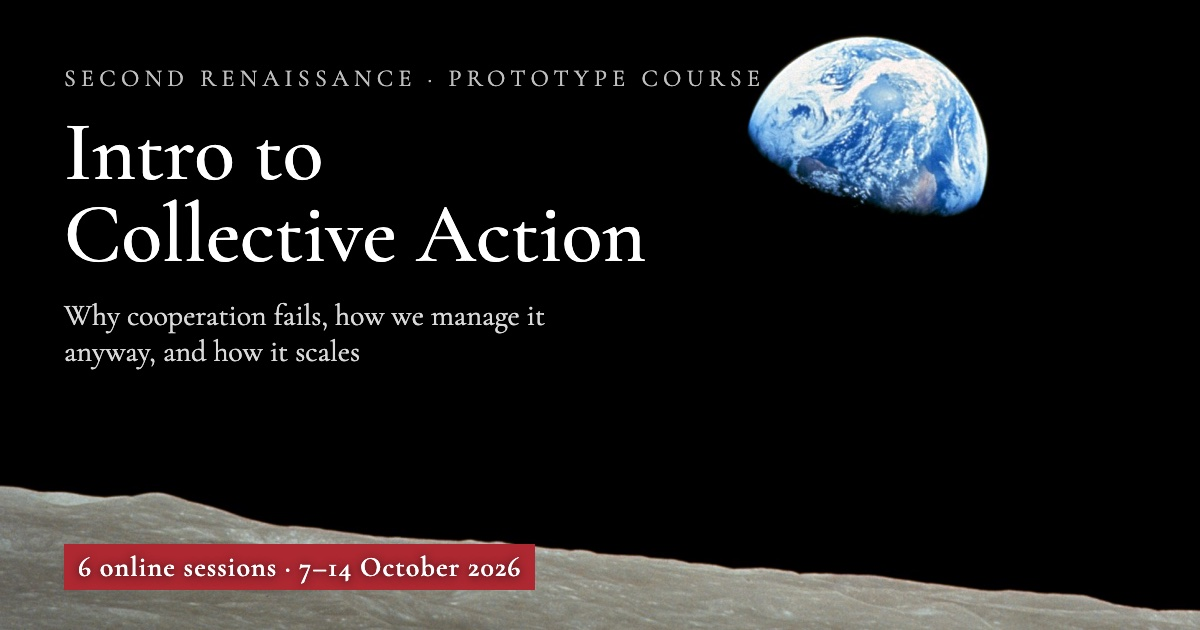
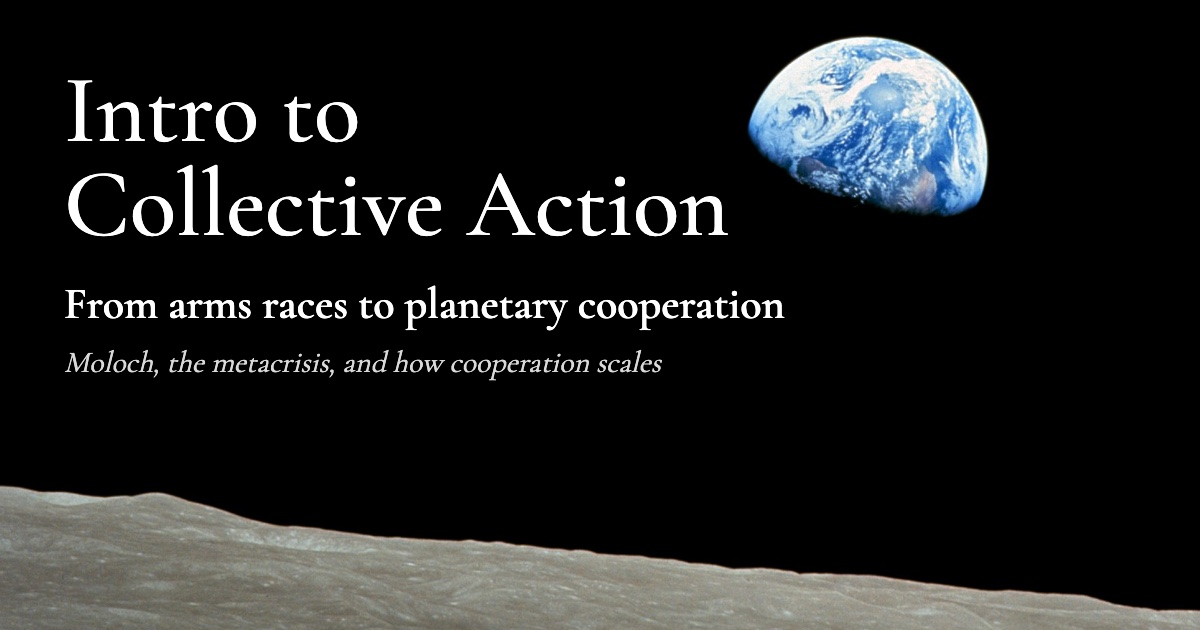
content(course): collective action copy pass – lead with cooperation, tagline, new social card

diff --git a/course/collective-action.md b/course/collective-action.md
@@ -1,6 +1,6 @@
 ---
 title: Intro to Collective Action
-description: Six sessions on why cooperation fails, how we manage it anyway, and how it has been made to work at larger and larger scales.
+description: A short online course on why cooperation fails, how it succeeds, and how it scales – from arms races and the commons to AI, climate and the metacrisis.
 image: /assets/img/course/collective-action-social-preview.jpg
 ---
 
@@ -8,40 +8,43 @@ image: /assets/img/course/collective-action-social-preview.jpg
 
 <figure>
   <img src="/assets/img/course/collective-action-hero.jpg" alt="Earthrise, photographed from lunar orbit by Apollo 8" />
-  <figcaption class="text-center text-sm text-gray-500">Earthrise, Apollo 8, 1968. At planetary scale there is no outside group left to cooperate against. (William Anders / NASA, public domain)</figcaption>
+  <figcaption class="text-center text-sm text-gray-500">Earthrise, Apollo 8, 1968. Every past jump in cooperation joined smaller groups into bigger ones. The next one is the whole planet. (William Anders / NASA, public domain)</figcaption>
 </figure>
 
-An introduction to collective action problems and opportunities, with applications to AI governance, climate change, nuclear weapons and the information commons.
+Humans cooperate at a scale no other animal does. We went from bands of a few dozen to villages, cities and nations of millions, and each jump came from new institutions and culture: ritual, kinship, law, money, the state. We also fail to cooperate in ways that could be catastrophic: arms races, overused commons, the race to build AI. These are collective action problems (sometimes called Moloch, or the multipolar trap) and they sit underneath the [metacrisis](https://metacrisis.info). This course looks at both sides: why cooperation fails, how it has been made to work, and what it would take at planetary scale.
 
 <a href="https://luma.com/iydwcpau" class="btn-primary">Sign up</a>
 
 | | |
 |---|---|
+| **Format** | Short online course, six sessions of 90 minutes |
 | **Dates** | Wednesday 7 to Wednesday 14 October 2026, weekdays only |
-| **Time** | 15:30–17:00 CEST, six sessions of 90 minutes |
-| **Where** | Online |
+| **Time** | 15:30–17:00 CEST |
 | **Price** | €20, refunded if you attend all six sessions |
 | **Led by** | Rufus Pollock — Life Itself co-founder, Cambridge economist (PhD), co-initiator of the Second Renaissance project |
 
 This is a prototype. The material is being developed as the course runs, and the outline below will change.
 
-## About
+> **From arms races to planetary cooperation.**
+> Moloch, the metacrisis, and how cooperation scales.
 
-Collective action failure is the central pattern of dysfunction underneath the [metacrisis](https://metacrisis.info). It's underneath climate change, the AI arms race, nuclear weapons and bioweapons. It's also underneath things like nihilism and loneliness that we don't usually associate with those.
+## About
 
 <figure>
   <img src="/assets/img/course/collective-action-nagasaki.jpg" alt="Mushroom cloud over Nagasaki, 9 August 1945" class="mx-auto max-h-[28rem]" />
   <figcaption class="text-center text-sm text-gray-500">Nagasaki, 9 August 1945. Every side in an arms race would be better off without one, and none can stop alone. (US Government, public domain)</figcaption>
 </figure>
 
-To the extent we're interested in collective action *problems* it is because we want *solutions*. But we have to start with diagnosis: what is a collective action failure — and success — and what causes them. We then look at what could be done, and especially at what made cooperation work at larger and larger scales.
+The same structure shows up in climate change, the AI race, nuclear weapons and bioweapons: each party does what makes sense for it, and the combined result is something none of them want. The course starts there, with the basic dynamics and the vocabulary for them.
+
+But a collective action problem is also a collective action opportunity. The reason to understand failure is to get better at success, and most of the course is about how cooperation has actually been made to work.
 
 <figure>
   <img src="/assets/img/course/collective-action-bali-rice-terraces.jpg" alt="Rice terraces in Bali" class="mx-auto max-h-[28rem]" />
   <figcaption class="text-center text-sm text-gray-500">Bali's subak irrigation system has shared water between thousands of farmers for over a thousand years, coordinated through a network of water temples. (Photo: Radoslav Bali, Unsplash)</figcaption>
 </figure>
 
-Every jump in the scale of human cooperation — band, village, chiefdom, city, nation — came from a cultural innovation: ritual, kinship, religion, law, money, the firm. Cultural evolution is how collective action gets solved at scale. The last two sessions are about what that implies for the jump we currently need to make: to planetary cooperation.
+Communities govern commons for centuries. States, markets and treaties hold strangers together. Every jump in the scale of human cooperation — band, village, chiefdom, city, nation — came from a cultural innovation: ritual, kinship, religion, law, money, the firm. The last two sessions ask what that implies for the jump we now need to make: to planetary cooperation.
 
 ## Course outline
 
@@ -106,12 +109,19 @@ What would cooperation at planetary scale require? Do we need a planetary religi
 - Enlarging the sphere of moral concern at each cultural paradigm shift
 - Thich Nhat Hanh and a new religion of Interbeing
 
+## What you'll come away with
+
+- A working vocabulary: prisoner's dilemma, stag hunt, tragedy of the commons, free riding, multipolar trap
+- The main answers to "how does cooperation happen at all?", from repeated interaction and Ostrom's commons to the state and the treaty
+- A picture of how cultural evolution has scaled cooperation, and what it has cost
+- A way to look at AI, climate and nuclear risk as cooperation challenges, with a sense of what has and hasn't worked
+
 ## Who it's for
 
-Anyone interested in what lies beneath some of the greatest challenges and opportunities of our time, from AI governance to climate change.
+Anyone interested in what lies beneath some of the biggest challenges and opportunities of our time, from AI governance to climate change.
 
-You might be interested if you work on or care about the commons, institutional design, cultural evolution, community-building, or technology governance.
+You might be interested if you work on or care about the commons, institutional design, cultural evolution, community-building, or technology governance — or if you've come across Moloch or the metacrisis and want to go a level deeper into the mechanics.
 
-No prior game theory needed.
+No prior game theory or economics needed.
 
 <a href="https://luma.com/iydwcpau" class="btn-primary">Sign up</a>
